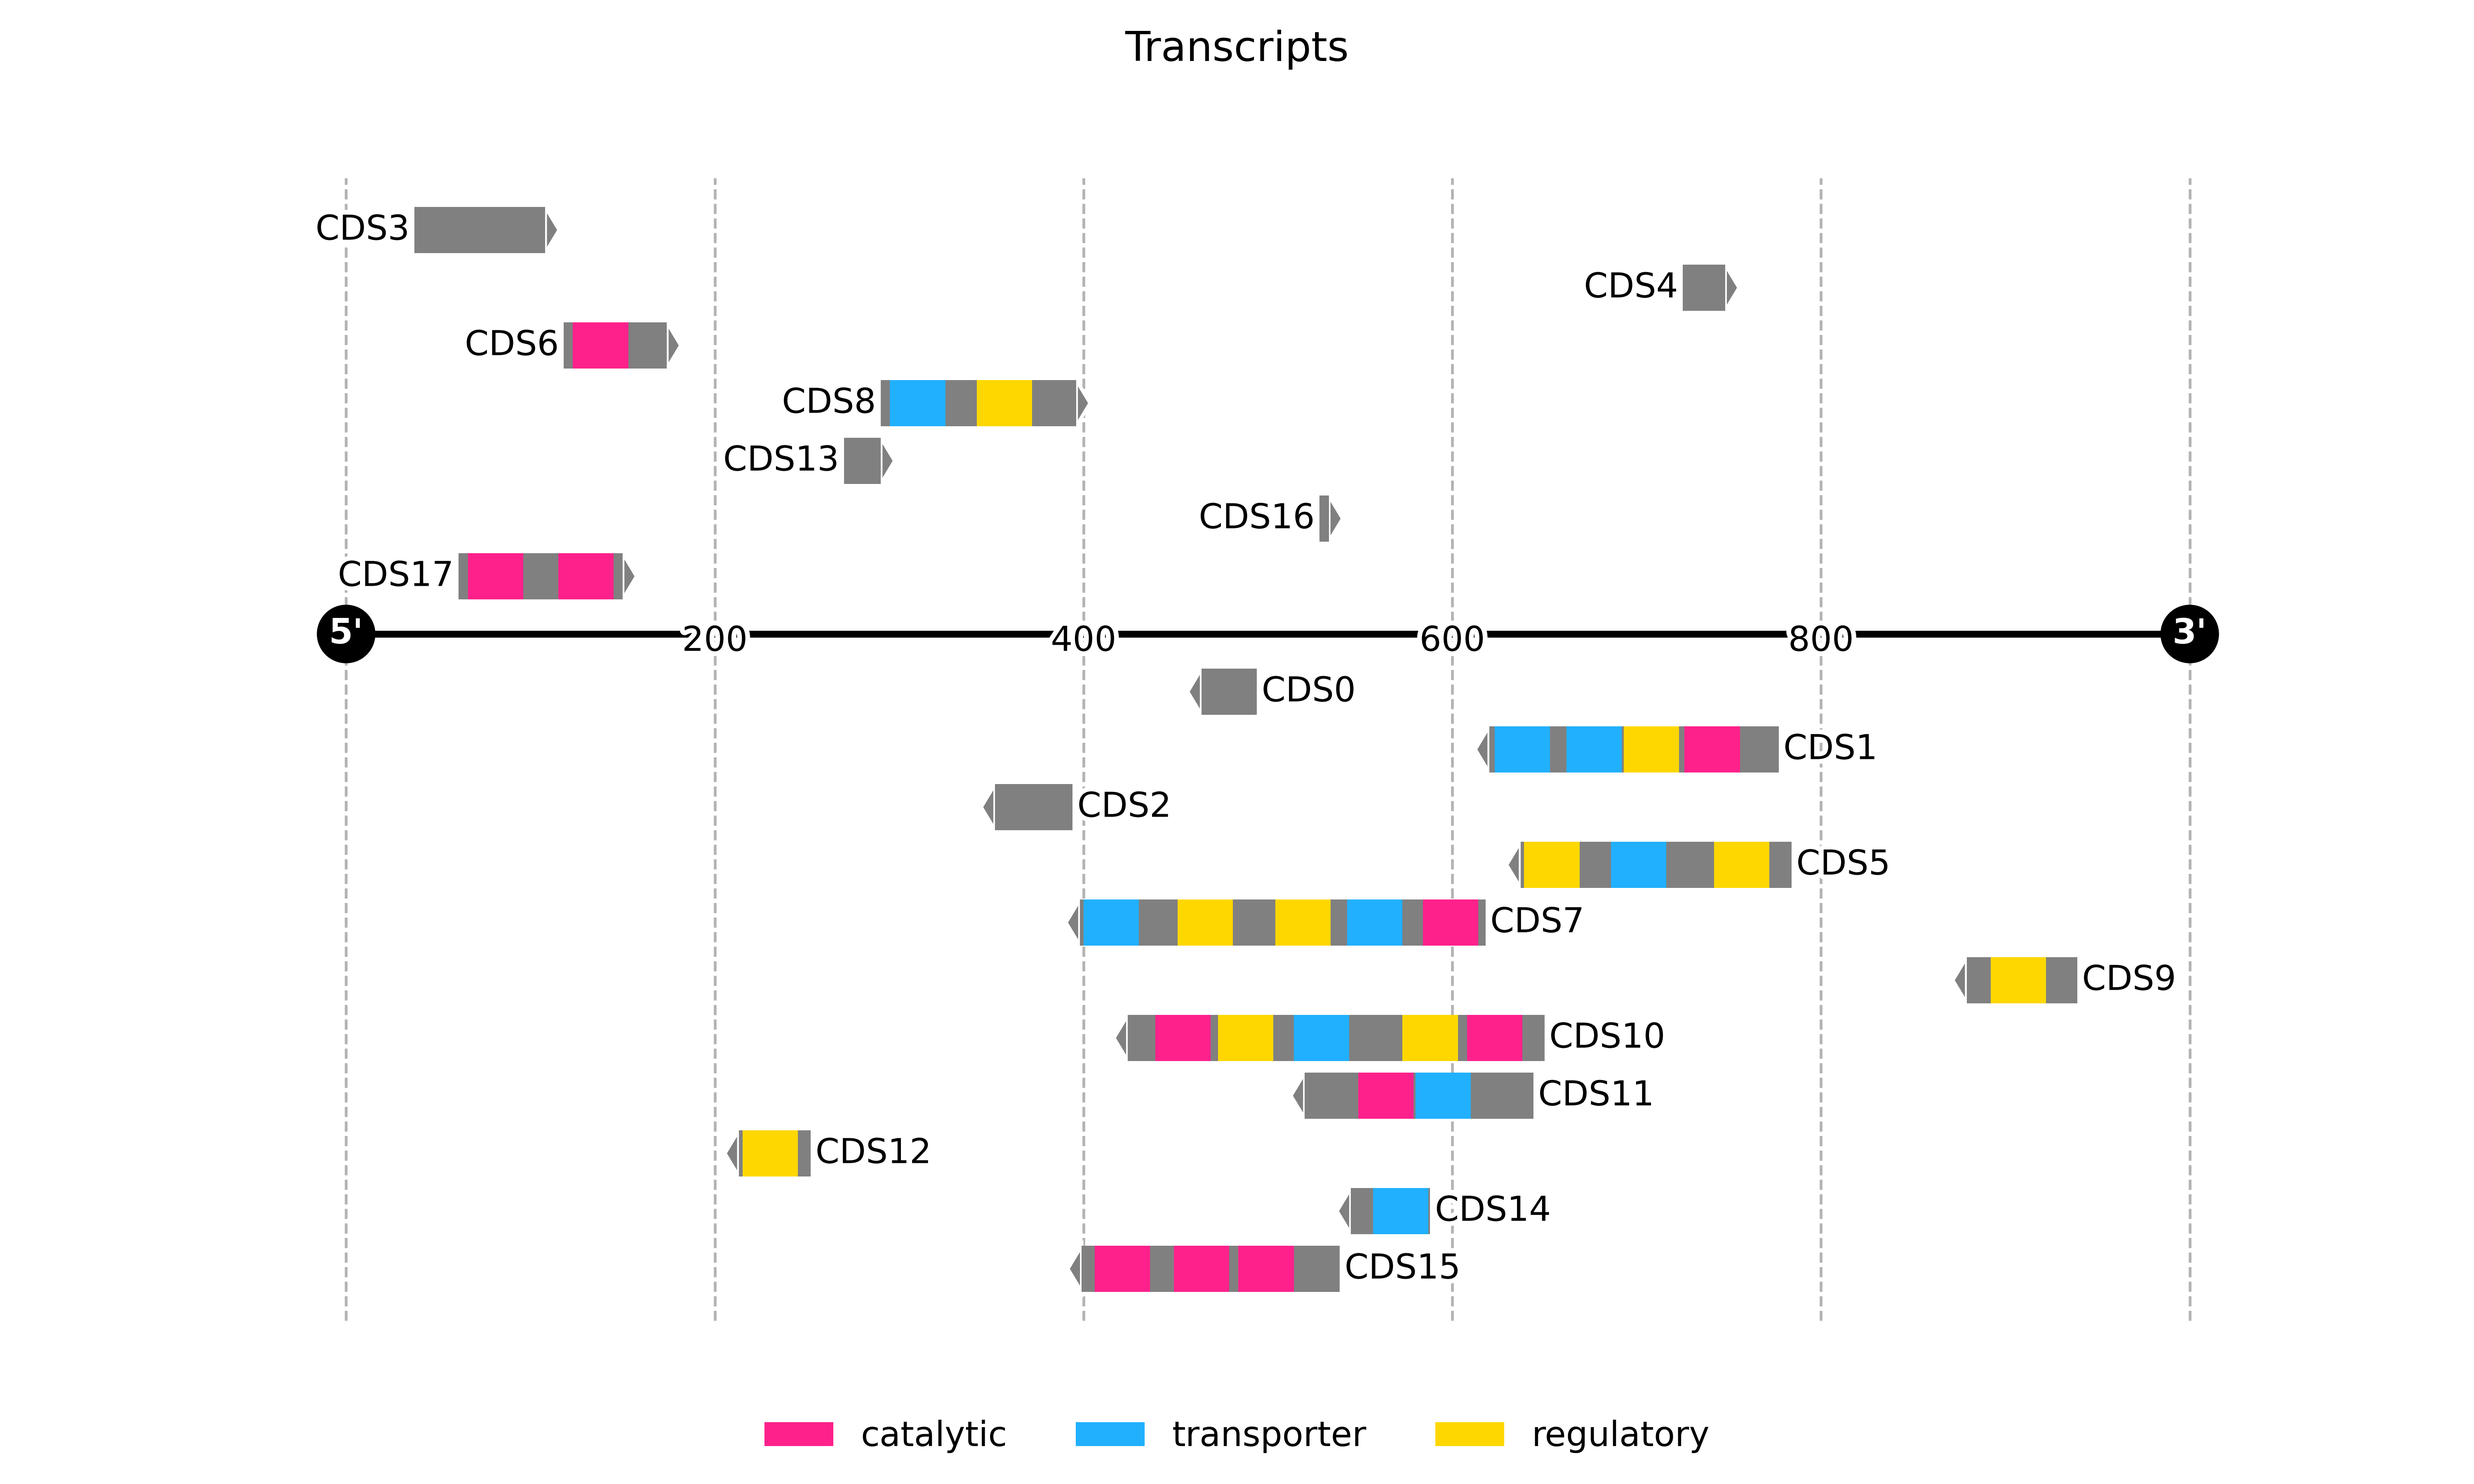
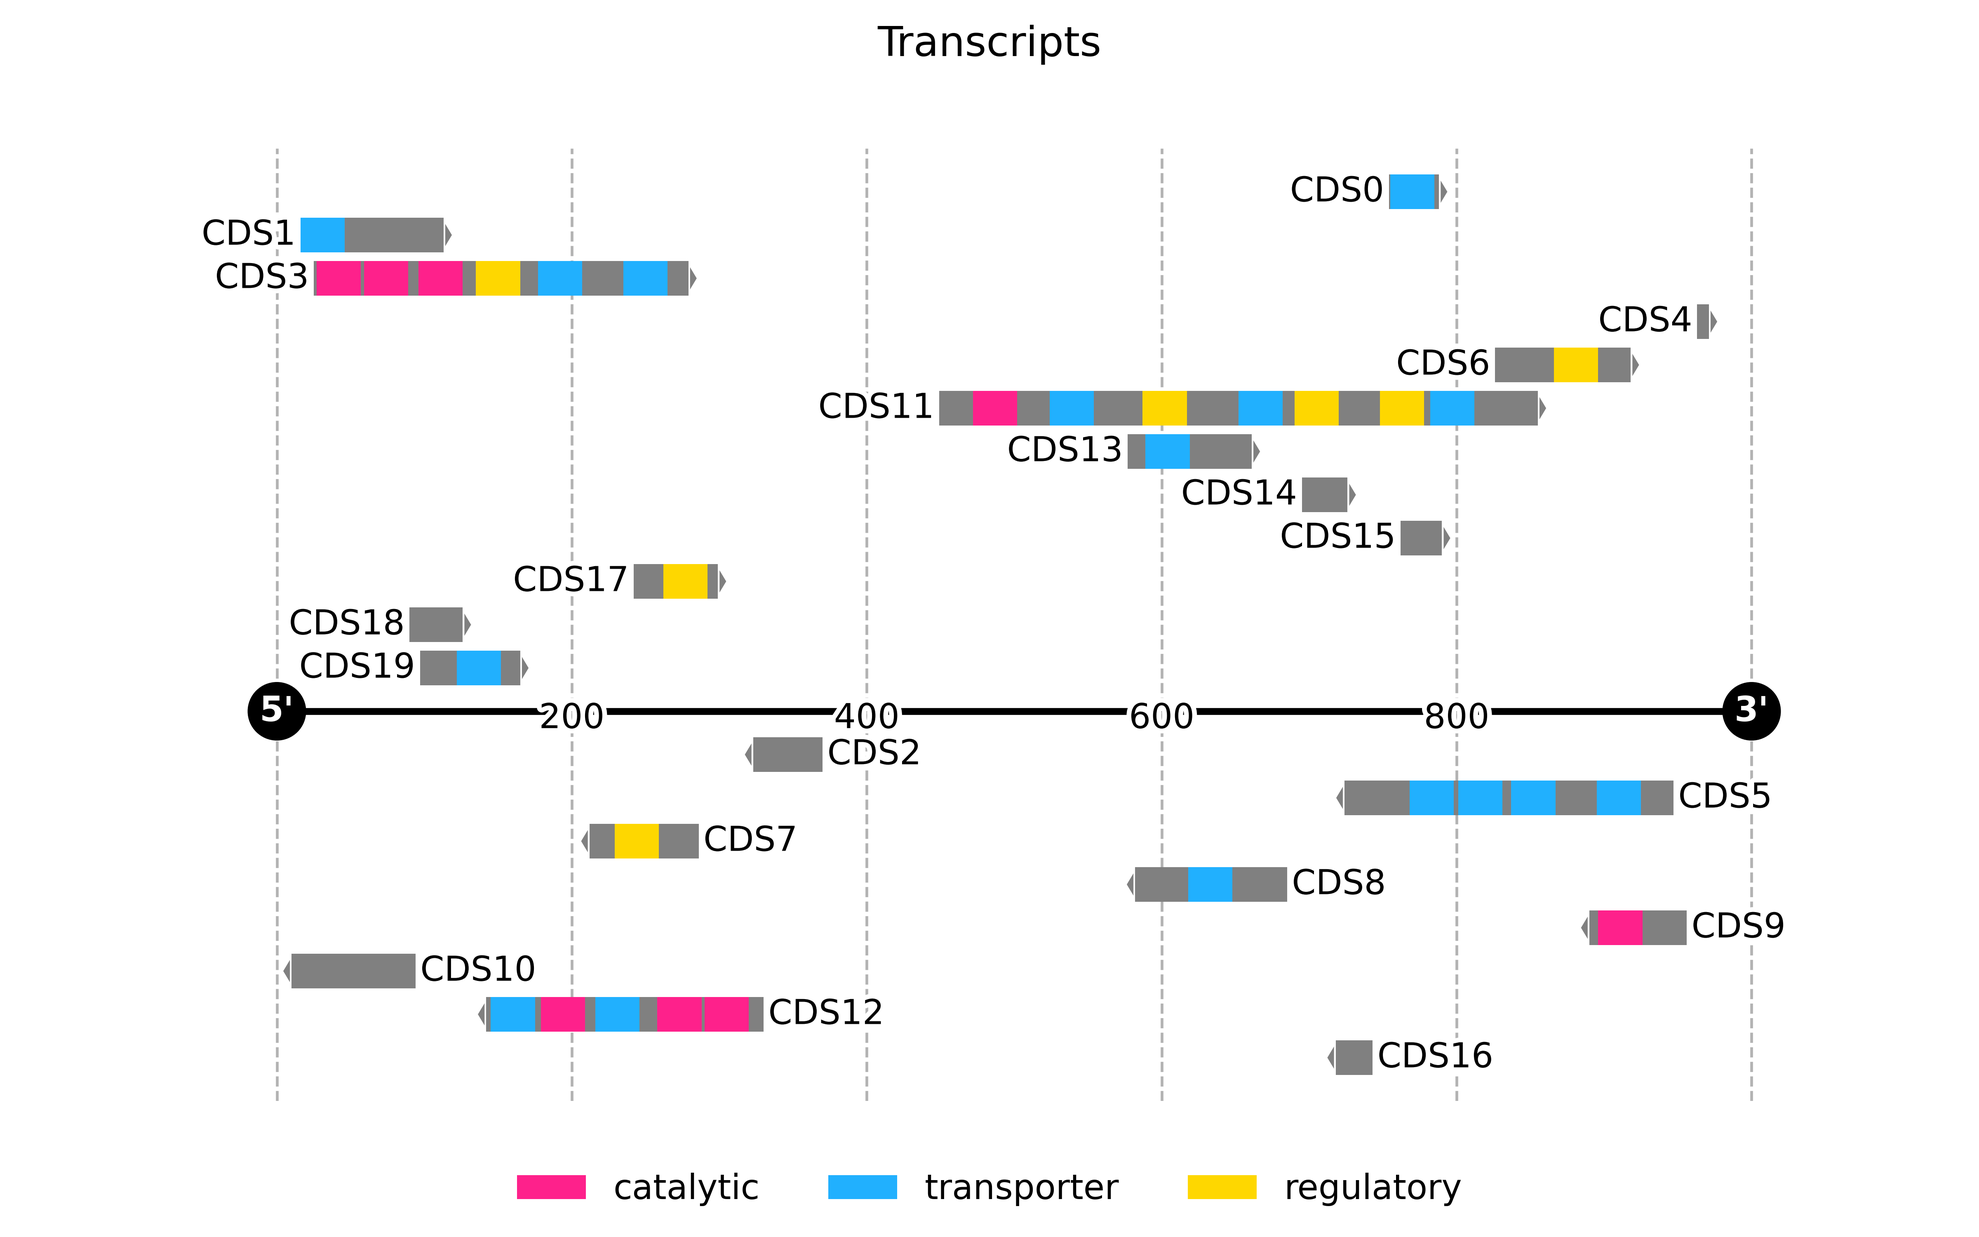
new plot

diff --git a/src/kns/TranscriptsPlot.tsx b/src/kns/TranscriptsPlot.tsx
@@ -216,23 +216,26 @@ export default function Page(): JSX.Element {
   return (
     <>
       <Img
-        src="https://matplotlib.org/stable/_static/logo_dark.svg"
-        width="300px"
-        height="50px"
+        src="https://raw.githubusercontent.com/mRcSchwering/vordeck/refs/heads/main/imgs/transcript_plot.png"
+        width="800px"
+        height="500px"
       />
-      <Heading variant="h4">Test Suite</Heading>
       <P>
-        One obvious place to mock AWS resources is in tests. Below is an example
-        of the configuration file of a{" "}
-        <A label="pytest" href="https://docs.pytest.org/" /> test suite. Moto
-        has a context manager for every AWS resource to be mocked. In the
-        example below I am mocking S3 with <Code>mock_s3</Code>. I place this
-        context into a fixture for easy usage in tests. Additionally, a function{" "}
-        <Code>fake_s3_setup</Code> is called to create the S3 bucket I am using.
-        Moto doesn't know which buckets you actually have, so it thinks you have
-        no resources at all. This means before accessing a bucket in your tests,
-        you must first create it. This function is also a nice place for adding
-        any test data.
+        Sometimes I spend way too much time on trying to get{" "}
+        <A href="https://matplotlib.org/" label="matplotlib" /> plot right. I
+        decided to start saving the code for such non-trivial plots for future
+        reference. Apart from that{" "}
+        <A
+          href="https://matplotlib.org/stable/gallery/index.html"
+          label="matplotlib examples"
+        />{" "}
+        should suffice.
+      </P>
+      <Heading variant="h4">Code</Heading>
+      <P>
+        <Code>barh</Code> <Code>patches.FancyArrow</Code>{" "}
+        <Code>ax.transData</Code> <Code>ax.set_axisbelow(True)</Code>
+        <Code>patches.Polygon(..., ec="white")</Code>
       </P>
       <BlockCode code={wholeCode} lang="python" />
     </>
